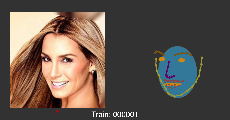
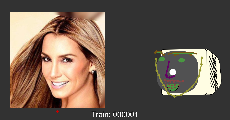
strart

Changed region(s): [[0.6696, 0.375, 0.9739, 0.825], [0.487, 0.925, 0.5783, 0.975], [0.3957, 0.925, 0.4565, 0.975]]

diff --git a/face.js b/face.js
@@ -13,7 +13,7 @@ var NUM_SLIDERS = 3;
 // here's some examples for colors used
 
 
-const stroke_color = [95, 52, 8];
+const stroke_color = [0, 0, 0];
 
 // example of a global function
 // given a segment, this returns the average point [x, y]
@@ -32,8 +32,8 @@ function segment_average(segment) {
 function Face() {
   // these are state variables for a face
   // (your variables should be different!)
-  this.detailColour = [204, 136, 17];
-  this.mainColour = [51, 119, 153];
+  this.detailColour = [73, 150, 65];
+  this.mainColour = [255, 253, 227];
   this.num_eyes = 2;    // can be either 1 (cyclops) or 2 (two eyes)
   this.eye_shift = -1;   // range is -10 to 10
   this.mouth_size = 1;  // range is 0.5 to 8
@@ -50,16 +50,35 @@ function Face() {
   this.draw = function(positions) {
     console.log()
     // head
+    push();
     ellipseMode(CENTER);
+    angleMode(DEGREES);
+    rectMode(CENTER);
     stroke(stroke_color);
     fill(this.mainColour);
-    ellipse(segment_average(positions.chin)[0], 0, 3, 4);
+    shearX(5);
+    rect(segment_average(positions.chin)[0]+1.5, 0, 3.6, 3, 0.9);
+    rect(segment_average(positions.chin)[0]+1, 0, 3.6, 3.5, 0.5);
+    push();
+    for (hatchingY = -1; hatchingY < 1.4; hatchingY += 0.1){
+      line(segment_average(positions.chin)[0]+2.8, hatchingY, segment_average(positions.chin)[0]+2.5-hatchingY*0.04, hatchingY-0.2);
+      line(segment_average(positions.chin)[0]+2.8, hatchingY, segment_average(positions.chin)[0]+3-hatchingY*0.02, hatchingY-0.1);
+      line(segment_average(positions.chin)[0]+2.8, hatchingY-0.2, segment_average(positions.chin)[0]+3-hatchingY*0.02, hatchingY);
+    }
+    pop();
+    shearX(-5);
+    rect(segment_average(positions.chin)[0]+0.5, 0, 3.5, 3.5, 0.2);
     noStroke();
+    fill(81, 81, 82);
+    rect(segment_average(positions.chin)[0], 0, 3.2, 3.2, 1.2);
+    pop();
 
 
     // mouth
     fill(this.detailColour);
-    ellipse(segment_average(positions.bottom_lip)[0], segment_average(positions.bottom_lip)[1], 1.36, 0.25 * this.mouth_size);
+    arc(segment_average(positions.bottom_lip)[0], segment_average(positions.bottom_lip)[1], 
+    segment_average(positions.bottom_lip)[1]-segment_average(positions.bottom_lip)[0], 1 * this.mouth_size, 
+        0,180);
 
     // eyebrows
     fill( this.eyebrowColour);
@@ -67,6 +86,13 @@ function Face() {
     strokeWeight(0.08);
     this.draw_segment(positions.left_eyebrow);
     this.draw_segment(positions.right_eyebrow);
+    fill(this.detailColour);
+    arc(segment_average(positions.left_eyebrow)[0], segment_average(positions.left_eyebrow)[1], 
+        segment_average(positions.left_eyebrow)[1]-segment_average(positions.left_eyebrow)[0], 0.25 * this.mouth_size, 
+        180,360);
+    arc(segment_average(positions.right_eyebrow)[0], segment_average(positions.right_eyebrow)[1], 
+        segment_average(positions.right_eyebrow)[1]-segment_average(positions.right_eyebrow)[0], 0.25 * this.mouth_size, 
+        180,360);
 
     // draw the chin segment using points
     fill(this.chinColour);
@@ -110,9 +136,9 @@ function Face() {
       fill(this.mainColour);
       ellipse(eyePosX - 0.1 + curEyeShift, eyePosY, 0.18);
     }
-   // fill(0)
-   //ellipse(0,0, 0.5,0.5) center point
-   //rect(-2,-2,4.5,4) sizing debug 
+   fill(255);
+   ellipse(0,0, 0.5,0.5); //center point
+  //  rect(-2,-2,4.5,4); //sizing debug 
   }
 
   // example of a function *inside* the face object.

diff --git a/README.md b/README.md
@@ -2,6 +2,4 @@
 [![Open in Visual Studio Code](https://classroom.github.com/assets/open-in-vscode-718a45dd9cf7e7f842a935f5ebbe5719a5e09af4491e668f4dbf3b35d5cca122.svg)](https://classroom.github.com/online_ide?assignment_repo_id=11103452&assignment_repo_type=AssignmentRepo)
 ## 2023 MDDN342 Assignment 3: Data Mappings
 
-REPLACE ALL TEXT IN THIS FILE
-
-This README should be used to document your design.
+Just started and made a rough CRT monitor. The eyebrows are a bit confusing for now.
